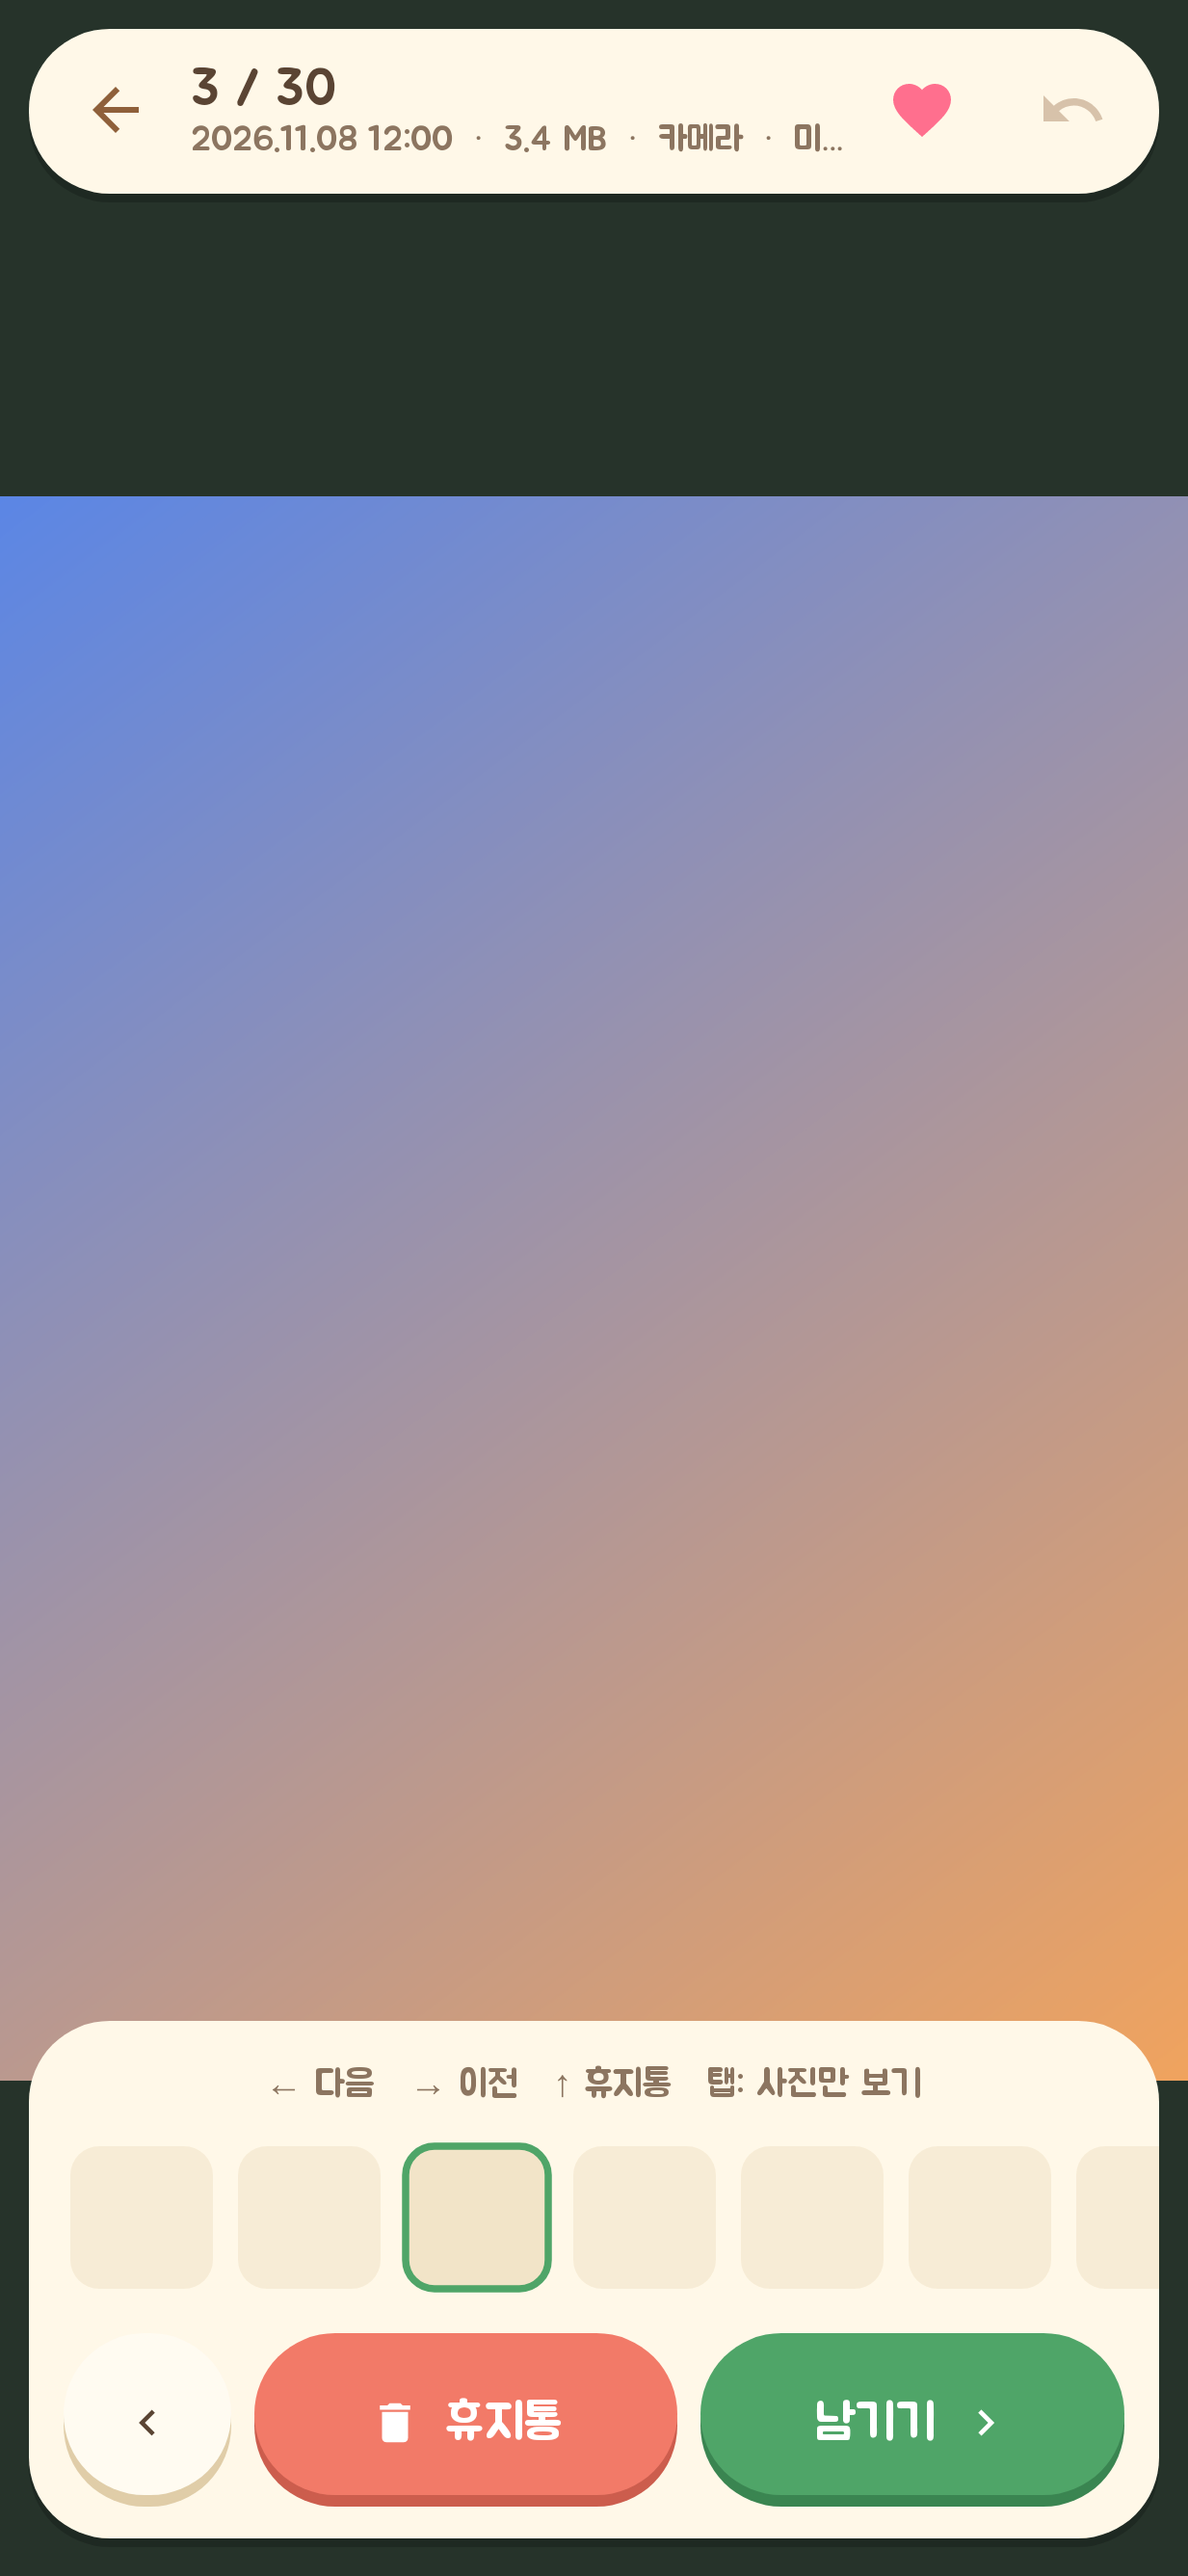
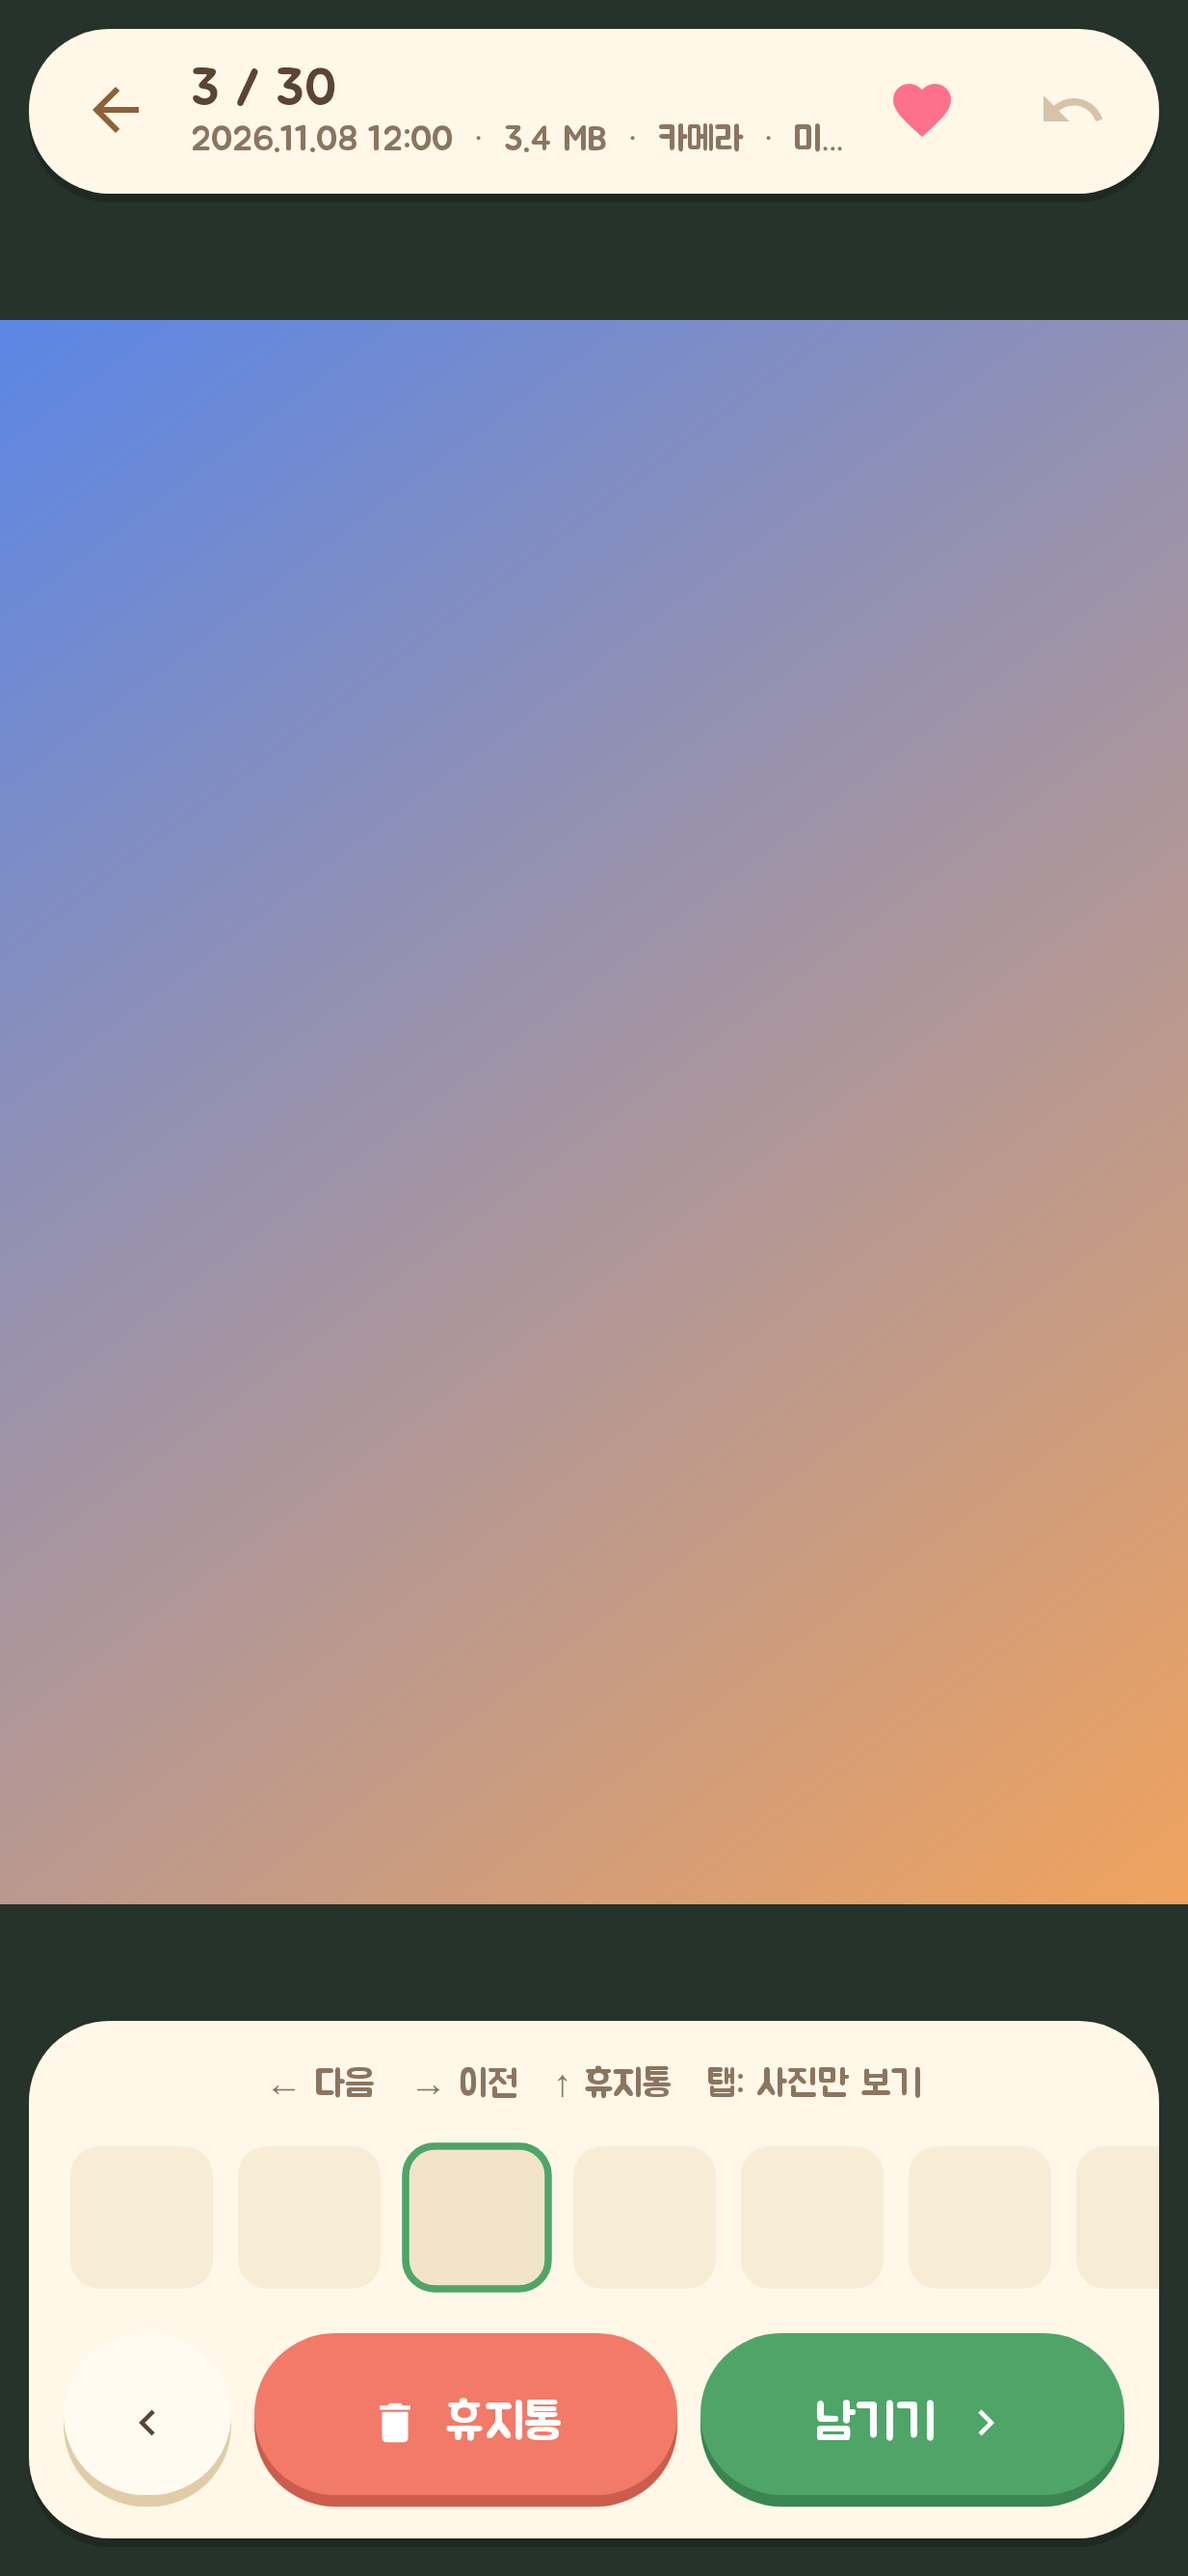
사진 보기: 위/아래 막대가 사진을 가리지 않게
The photo is now laid out in the space between the top bar and the
bottom panel instead of underneath them; tapping the photo hides the
bars and the photo takes the full screen again. Insets update when the
bars change size. Robolectric test checks both states.

Claude-Session: https://claude.ai/code/session_01VKa3e8XPYrDBrSCx1zVamC

Changed region(s): [[0.0, 0.7142, 1.0, 0.8073], [0.0, 0.1242, 1.0, 0.2174]]

diff --git a/app/src/test/java/com/photoclean/app/ViewerLayoutTest.kt b/app/src/test/java/com/photoclean/app/ViewerLayoutTest.kt
@@ -1,0 +1,56 @@
+package com.photoclean.app
+
+import android.net.Uri
+import android.view.View
+import android.view.ViewGroup
+import org.junit.Assert.assertEquals
+import org.junit.Assert.assertTrue
+import org.junit.Test
+import org.junit.runner.RunWith
+import org.robolectric.Robolectric
+import org.robolectric.RobolectricTestRunner
+import org.robolectric.annotation.Config
+import org.robolectric.shadows.ShadowLooper
+
+/** 사진 보기: 사진이 위/아래 막대에 가리지 않는지 */
+@RunWith(RobolectricTestRunner::class)
+@Config(sdk = [34], qualifiers = "w411dp-h891dp-xxhdpi")
+class ViewerLayoutTest {
+
+    private fun layout(root: View) {
+        root.measure(
+            View.MeasureSpec.makeMeasureSpec(root.width, View.MeasureSpec.EXACTLY),
+            View.MeasureSpec.makeMeasureSpec(root.height, View.MeasureSpec.EXACTLY),
+        )
+        root.layout(root.left, root.top, root.right, root.bottom)
+        ShadowLooper.idleMainLooper()
+    }
+
+    @Suppress("UNCHECKED_CAST")
+    @Test
+    fun photoSitsBetweenBars() {
+        val controller = Robolectric.buildActivity(MainActivity::class.java).setup()
+        val a = controller.get()
+        val cls = MainActivity::class.java
+        val all = cls.getDeclaredField("allPhotos").apply { isAccessible = true }.get(a) as MutableList<Photo>
+        repeat(5) { i -> all.add(Photo(10L + i, Uri.parse("content://media/external/images/media/${10 + i}"), "p$i.jpg", 1_762_000_000_000L - i, 1000)) }
+        cls.getDeclaredMethod("applyFilters", java.lang.Long::class.java).apply { isAccessible = true }.invoke(a, null)
+        cls.getDeclaredMethod("openViewer", Int::class.java).apply { isAccessible = true }.invoke(a, 0)
+        val root = a.findViewById<View>(R.id.viewerScreen)
+        layout(root); layout(root) // 막대 크기 확정 → 사진 자리 조정
+
+        val photo = a.findViewById<View>(R.id.photo)
+        val topCard = (a.findViewById<ViewGroup>(R.id.viewerTop)).getChildAt(0)
+        val bottom = a.findViewById<View>(R.id.viewerBottom)
+        assertTrue("사진 위(${photo.top})가 위쪽 막대 아래(${topCard.bottom}) 이후", photo.top >= topCard.bottom)
+        assertTrue("사진 아래(${photo.bottom})가 아래쪽 판 위(${bottom.top}) 이전", photo.bottom <= bottom.top)
+        assertTrue("사진 자리가 충분히 큼", photo.height > root.height / 2)
+
+        // 한 번 탭 → 막대 숨김 → 사진이 화면 전체
+        a.findViewById<ZoomImageView>(R.id.photo).onSingleTap!!.invoke()
+        layout(root)
+        assertEquals(0, photo.top)
+        assertEquals(root.height, photo.bottom)
+        controller.pause().stop().destroy()
+    }
+}

diff --git a/app/src/main/java/com/photoclean/app/MainActivity.kt b/app/src/main/java/com/photoclean/app/MainActivity.kt
@@ -894,6 +894,12 @@ class MainActivity : AppCompatActivity() {
             zoomPill.visibility = if (zoomed && settings.keepZoom) View.VISIBLE else View.GONE
         }
         photoView.onSingleTap = { setChromeVisible(!chromeVisible) }
+        // 위/아래 막대 크기가 정해지거나 바뀌면 사진 자리를 다시 맞춘다
+        val relayout = View.OnLayoutChangeListener { _, _, top, _, bottom, _, oldTop, _, oldBottom ->
+            if (bottom - top != oldBottom - oldTop) photoView.post { updatePhotoInsets() }
+        }
+        viewerTopCard().addOnLayoutChangeListener(relayout)
+        viewerBottom.addOnLayoutChangeListener(relayout)
         photoView.onSwipe = { dx, dy ->
             val min = 60 * resources.displayMetrics.density
             when {
@@ -928,8 +934,29 @@ class MainActivity : AppCompatActivity() {
     }
 
     /** 위/아래 막대 보이기/숨기기 (사진만 크게 보기) */
+    /** 위쪽 막대의 크림색 판 (아래 '확대 유지 중' 알림은 제외) */
+    private fun viewerTopCard(): View = (viewerTop as ViewGroup).getChildAt(0)
+
+    /**
+     * 사진이 위/아래 막대에 가리지 않게 그 사이 공간에만 보여준다.
+     * 막대를 숨기면(사진 한 번 탭) 화면 전체를 쓴다.
+     */
+    private fun updatePhotoInsets() {
+        val gap = (6 * resources.displayMetrics.density).toInt()
+        val top = if (chromeVisible) viewerTop.paddingTop + viewerTopCard().height + gap else 0
+        val bottomLp = viewerBottom.layoutParams as ViewGroup.MarginLayoutParams
+        val bottom = if (chromeVisible) viewerBottom.height + bottomLp.bottomMargin + gap else 0
+        val lp = photoView.layoutParams as ViewGroup.MarginLayoutParams
+        if (lp.topMargin != top || lp.bottomMargin != bottom) {
+            lp.topMargin = top
+            lp.bottomMargin = bottom
+            photoView.layoutParams = lp
+        }
+    }
+
     private fun setChromeVisible(v: Boolean) {
         chromeVisible = v
+        updatePhotoInsets()
         listOf(viewerTop, viewerBottom).forEach { bar ->
             bar.animate().cancel()
             if (v) {
